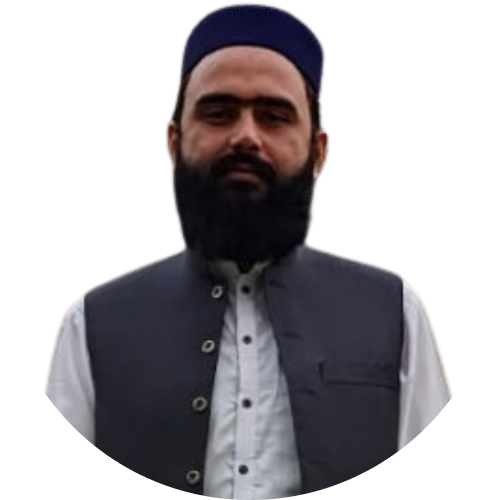
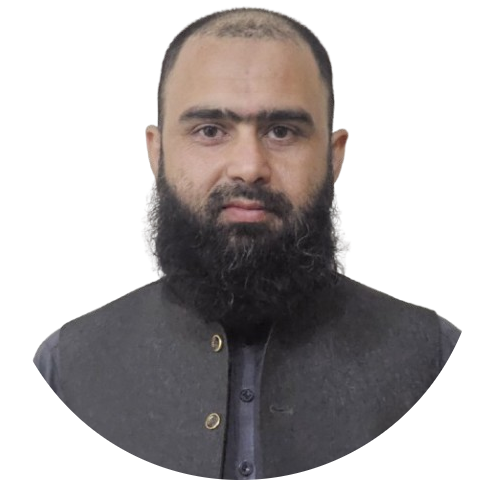
add image and some other

diff --git a/src/pages/Services.jsx b/src/pages/Services.jsx
@@ -1,43 +1,42 @@
-// import { useEffect, useState} from "react";
 import { PiArrowDownRightLight } from "react-icons/pi";
 import { Data } from "../Date";
 import { Link } from "react-router-dom";
 
-const Services =()=>{
-
-  return(
-    <div className="min-h-[80vh] flex flex-col justify-center my-12 xl:py-5">
-      <div className="container mx-auto">
-        <div className="grid grid-cols-1 md:grid-cols-2 gap-[60px]">
-        {
-        Data.map((item,index)=>{
-          return(
-            <div key={index} className="flex-1 flex flex-col justify-center gap-6 group">
-              {/* top */}
-              <div className="w-full flex justify-between items-center">
-                <div className="text-5xl font-extrabold text-outline  text-transparent group-hover:text-outline-hover transition-all duration-500">{item.num}</div>
-                <Link to={item.href} className="w-[70px] h-[70px] rounded-full bg-white group-hover:bg-accent transition-all duration-500 flex justify-center items-center hover:-rotate-45">
-                <PiArrowDownRightLight className="text-primary text-3xl"/>
-                </Link>
+const Services = () => {
+  return (
+    <div className="min-h-[80vh] flex flex-col justify-center  xl:py-3">
+      <div className="container mx-auto flex justify-center">
+        <div className=" max-h-[50vh] overflow-y-auto overscroll-contain scroll-smooth scrollbar-thin scrollbar-track-gray-800 scrollbar-thumb-gray-500 p-4">
+          <div className="grid grid-cols-2 gap-[40px]">
+            {Data.map((item, index) => (
+              <div key={index} className="flex-1 flex flex-col justify-center gap-6 group">
+                {/* Top */}
+                <div className="w-full flex justify-between items-center">
+                  <div className="text-5xl font-extrabold text-outline text-transparent group-hover:text-outline-hover transition-all duration-500">
+                    {item.num}
+                  </div>
+                  <Link
+                    to={item.href}
+                    className="w-[70px] h-[70px] rounded-full bg-white group-hover:bg-accent transition-all duration-500 flex justify-center items-center hover:-rotate-45"
+                  >
+                    <PiArrowDownRightLight className="text-primary text-3xl" />
+                  </Link>
+                </div>
+                {/* Heading */}
+                <h2 className="text-[30px] font-bold leading-none text-white group-hover:text-accent transition-all duration-500">
+                  {item.heading}
+                </h2>
+                {/* Description */}
+                <p className="text-white/60 h-full">{item.text}</p>
+                {/* Border */}
+                <div className="border-b border-white/60 w-full"></div>
               </div>
-              {/* heading */}
-              <h2 className="text-[30px] font-bold leading-none text-white group-hover:text-accent transition-all duration-500">{item.heading}</h2>
-              {/* description */}
-              <p className="text-white/60">{item.text}</p>
-              {/* border */}
-              <div className="border-b border-white/60 w-full"></div>
-            </div>
-          )
-        })
-      }
+            ))}
+          </div>
         </div>
-      
       </div>
-
     </div>
-  )
+  );
+};
 
-}
-
-export default Services
-
+export default Services;

diff --git a/src/components/MyInfo/MyInfo.jsx b/src/components/MyInfo/MyInfo.jsx
@@ -2,7 +2,7 @@ import PropTypes from "prop-types";
 
 const MyInfo = ({ heading, ExperData, isAboutUs, SkillsData }) => {
     return (
-      <div className="grid grid-rows-1 place-content-center items-center  ">
+      <div className="grid grid-rows-1 lg:place-content-center items-center  ">
         {heading.map(({ headings, para }, index) => (
           <div key={index} className="flex flex-col gap-[30px] ">
             <h2 className="text-4xl font-bold">{headings}</h2>
@@ -11,55 +11,17 @@ const MyInfo = ({ heading, ExperData, isAboutUs, SkillsData }) => {
         ))}
   
         {isAboutUs ? (
-          <ul className="grid grid-cols-1 xl:grid-cols-2 gap-y-6 max-w-[620px] mx-auto xl:mx-0">
+          <ul className="grid grid-cols-1 md:grid-cols-2 gap-y-6 max-w-[620px] mx-auto xl:mx-0">
           {ExperData?.map((data, index) => {
 
             return(
-              <li key={index} className="flex items-center justify-center xl:justify-start gap-4">
+              <li key={index} className="flex items-center justify-start  gap-4">
                   <span className="text-white/60">{data.label}</span>
                   <span className="text-xl">{data.field}</span>
 
               </li>
             )
           }
-            // <div key={index} className=" grid grid-cols-1 xl:grid-cols-2 gap-y-6 max-w-[620px] mx-auto xl:mx-0">
-            //   {/* Left Section */}
-            //   <div >
-            //     {[
-            //       { label: "Name", value: data.name },
-            //       { label: "Experience", value: data.Experience },
-            //       { label: "Nationality", value: data.Nationality },
-            //       { label: "Freelance", value: data.Freelance },
-            //     ].map(({ label, value }, idx) => (
-            //       <div key={idx} className="  ">
-            //         <div className=" ">
-            //           <label className="text-md">{label}</label>
-            //         </div>
-            //         <div className=" ">
-            //           <p>{value}</p>
-            //         </div>
-            //       </div>
-            //     ))}
-            //   </div>
-        
-            //   {/* Right Section */}
-            //   <div className="">
-            //     {[
-            //       { label: "Phone", value: data.Phone },
-            //       { label: "Email", value: data.Email },
-            //       { label: "Language", value: data.language },
-            //     ].map(({ label, value }, idx) => (
-            //       <div key={idx} className="   ">
-            //         <div className="">
-            //           <label className="text-md ">{label}</label>
-            //         </div>
-            //         <div>{value}</div>
-            //       </div>
-            //     ))}
-            //   </div>
-            // </div>
-
-
           )}
         </ul>
         

diff --git a/src/pages/Home.jsx b/src/pages/Home.jsx
@@ -4,9 +4,9 @@ import Stats from "../components/Stats";
 import MyCv from "../components/myCv";
 const Home = () => {
   return (
-    <div className="h-full pt-10">
+    <div className="h-full pt-20">
       <div className="container mx-auto h-full">
-        <div className="flex flex-col xl:flex-row items-center justify-between xl:pl-8 xl:pb-24">
+        <div className="flex flex-col max-h-[50vh] xl:flex-row items-center justify-between ">
           {/* text */}
           <div className="text-center xl:text-left order-2 xl:order-none">
             <span>Front-End Developer</span>
@@ -30,7 +30,10 @@ const Home = () => {
           </div>
         </div>
       </div>
-    <Stats/>
+      <div className="pt-24">
+      <Stats/>
+      </div>
+   
     </div>
   )
 }

diff --git a/src/pages/Work.jsx b/src/pages/Work.jsx
@@ -37,7 +37,7 @@ const Work = () => {
           const currentSlide = Swiper.activeIndex;
           setProject(Projects[currentSlide]);}
   return (
-    <div className="min-h-[80vh] flex flex-col py-12 justify-center xl:px-0">
+    <div className="max-h-[80vh] flex flex-col xl:mt-[2rem] lg:mt-[25rem] md:mt-[18rem] sm:mt-[15rem] xs:mt-[15rem] mt-[12rem] justify-center">
     <div className="container mx-auto ">
             <div className="flex flex-col xl:flex-row xl:gap-[30px]">
                 <div className="w-full xl:w-[50%] xl:h-[460px] flex flex-col xl:justify-between order-2 xl:order-none">

diff --git a/src/components/Navbar/Navbar.jsx b/src/components/Navbar/Navbar.jsx
@@ -37,7 +37,8 @@ const Navbar = () => {
   }, []);
 
   return (
-    <div className="grid grid-cols-2 w-full justify-between py-5 lg:px-10 xl:px-20 px-0">
+  <div className="container">
+     <div className="grid grid-cols-2 w-full justify-between py-5 ">
       <div className="flex justify-start items-center">
         <h1 className="text-3xl font-medium uppercase">
           <NavLink to="/">Muhammad<span className="text-accent">.</span></NavLink>
@@ -116,6 +117,8 @@ const Navbar = () => {
         </div>
       </div>
     </div>
+  </div>
+   
   );
 };
 

diff --git a/src/components/AllInfo/AllInfo.jsx b/src/components/AllInfo/AllInfo.jsx
@@ -61,7 +61,7 @@ const [activeButton, setActiveButton] = useState('Experience');
   const { heading: selectedHeading, data: selectedData, type } = selectedInfo; // Destructured selectedInfo
 
   return (
-    <div className="container mx-auto grid grid-row xl:grid-cols-2 place-content-center ">
+    <div className="container mx-auto grid grid-row xl:grid-cols-2 lg:place-content-center ">
       <div className="flex flex-col gap-[60px] ">
         <MultipleButton setShowData={handleButtonClick} Button={Button} activeButton={activeButton} />
       </div>

diff --git a/src/components/Photo.jsx b/src/components/Photo.jsx
@@ -3,9 +3,8 @@ import  Image from "../assets/Photo_1.png"
 const Photo = () => {
   return (
     <div className="w-full h-full relative">
-        <div className="w-[298px] h-[298px] md:w-[500px] md:h-[500px]  mix-blend-lighten">
-            <img src={Image} alt="my image" className="object-cover px-3 md:pl-6"/>
-            
+        <div className="w-[298px] h-[298px] md:w-[480px] md:h-[480px]  mix-blend-lighten">
+            <img src={Image} alt="my image" className="object-cover "/>
         </div>
       
     </div>

diff --git a/src/components/MultipleButton/MultipleButton.jsx b/src/components/MultipleButton/MultipleButton.jsx
@@ -2,7 +2,7 @@ import PropTypes from "prop-types";
 
 const MultipleButton = ({ Button, setShowData ,activeButton }) => {
   return (
-    <div className="flex flex-col w-full max-w-[380px] mx-auto xl:mx-0 gap-2">
+    <div className="flex flex-col w-full lg:max-w-[480px] mx-auto xl:mx-0 gap-2">
       <div>
         <h2 className="text-2xl md:text-3xl pb-4">Why hire me?</h2>
         <p className="pb-4 text-sm md:text-base">Lorem ipsum dolor sit amet consectetur adipisicing elit.</p>

diff --git a/src/Date.js b/src/Date.js
@@ -10,7 +10,7 @@ export const Data = [
         num: '02',
         heading:'HTML/CSS Development',
         text:` Writing semantic HTML and modular, maintainable CSS.
-        Using modern CSS frameworks like Bootstrap, Tailwind, or custom solutions for layout .`,
+        Using modern CSS frameworks like Bootstrap, Tailwind, or custom solutions for layout `,
     },
     {
         num: '03',

diff --git a/src/pages/Resume.jsx b/src/pages/Resume.jsx
@@ -3,7 +3,7 @@ import { heading, ExperData,Button } from "../Date"
 
 const Resume = () => {
   return (
-    <div className="min-h-[80vh] flex  items-center justify-center my-12 xl:py-0">
+    <div className="min-h-[50vh] flex  items-center justify-center mt-10 ">
       <AllInfo Button={Button} heading={heading} ExperData={ExperData} />
 
      
